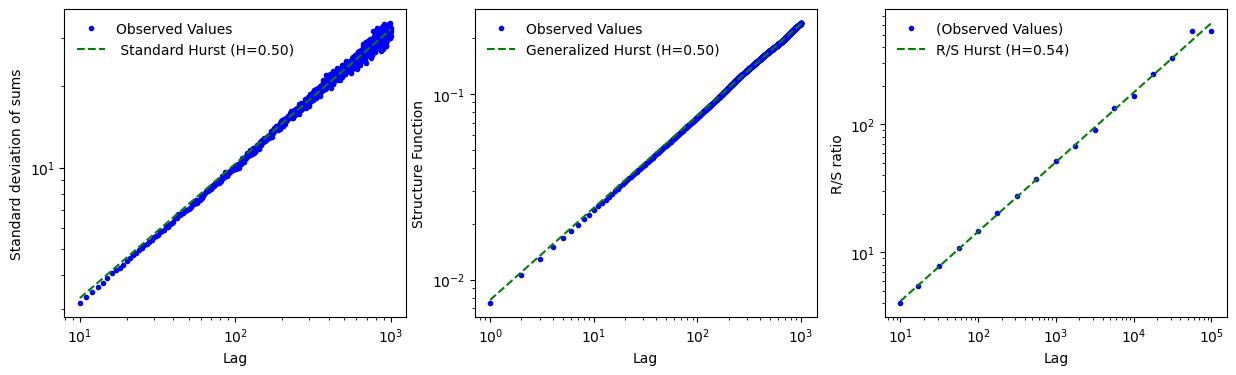
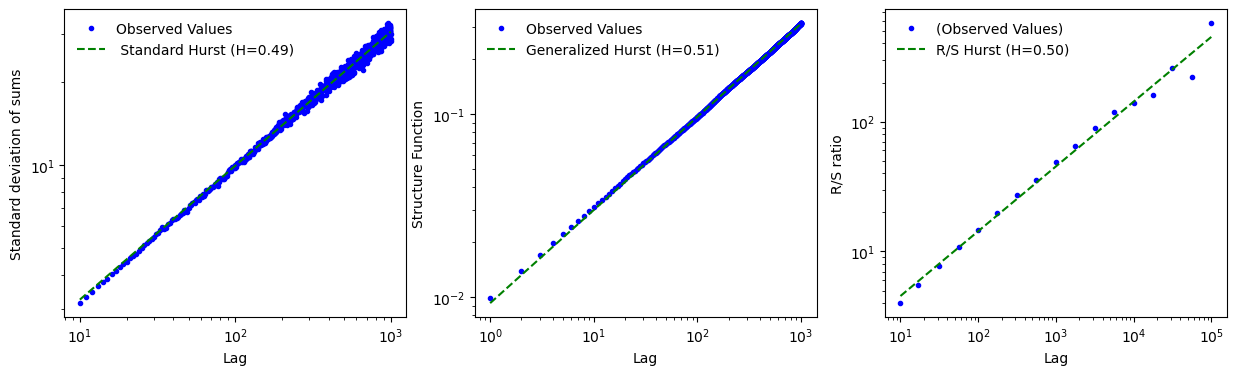
Vecotrized std_of_sums function in utils

diff --git a/util/utils.py b/util/utils.py
@@ -40,7 +40,7 @@ def simple_series(length: int = 1000, noise_pct_std: float = 0.001) -> np.ndarra
 # the latter, and the inclusion of noise_pct_std parameter
 def stochastic_process(length: int, proba: float = 0.5, min_lag: int = 1, max_lag: int = 100, cumprod: bool = False) -> List[float]:
     """
-    Generates a random walk series
+    Generates a stochastic process
 
     Parameters
     ----------
@@ -121,7 +121,6 @@ def neg_log_likelihood(params, x_values, y_values,func: Callable) -> float:
 
     return loglikelihood
 
-
 def std_of_sums(ts: np.array, chunk_size: int) -> float:
     """
     Computes the standard deviation of sums of time series chunks of size chunk_size.
@@ -138,11 +137,13 @@ def std_of_sums(ts: np.array, chunk_size: int) -> float:
     std : float
         The standard deviation of the sums
     """
-    sums = []
-    for i in range(0, len(ts), chunk_size):  # Iterate over the time series with a step size of chunk_size
-        chunk = ts[i: i + chunk_size]  # Get the next chunk of size chunk_size
-        if len(chunk) == chunk_size:  # If we have a full chunk of size chunk_size
-            sums.append(np.sum(chunk))  # Sum up the chunk and add to the list
+    if chunk_size == 0:
+        return np.nan
+
+    # Reshape the array to have a size of (-1, chunk_size) and sum along the second axis
+    chunks = len(ts) // chunk_size
+    sums = ts[:chunks * chunk_size].reshape(-1, chunk_size).sum(axis=1)
+
     return np.std(sums)
 
 

diff --git a/hurstexponent/hurst_exponent.py b/hurstexponent/hurst_exponent.py
@@ -20,7 +20,7 @@ def standard_hurst(series: np.array, fitting_method: str = 'mle', min_lag: int =
     fitting_method: str, optional
         The method to use to estimate the Hurst exponent. Options include:
         - 'OLS': Log-log OLS regression fitting method
-        - 'least_squares': Direct fitting using Least-squares
+        - 'least_squares': Direct fitting using Nonlinear Least-squares
         - 'mle': Maximum Likelihood Estimation (MLE)
         Default is 'OLS'.
     max_lag: int, optional
@@ -107,7 +107,7 @@ def generalized_hurst(series: np.array, moment: int = 1, fitting_method: str = '
     fitting_method : str, optional
         The method to use to estimate the Hurst exponent. Options include:
         - 'OLS': Log-log OLS regression fitting method
-        - 'least_squares': Direct fitting using Least-squares
+        - 'least_squares': Direct fitting using Nonlinear Least-squares
         - 'mle': Maximum Likelihood Estimation (MLE)
         Default is 'OLS'.
     max_lag : int, optional
